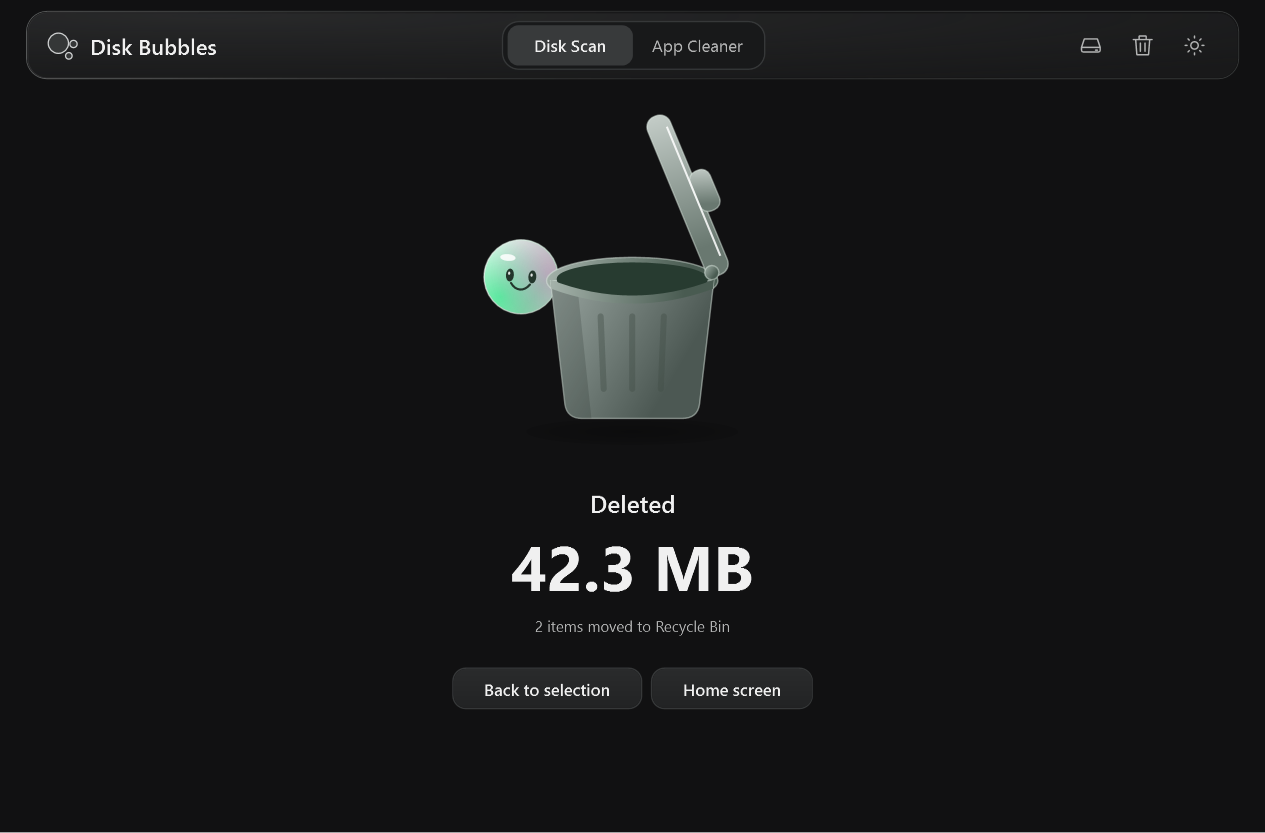
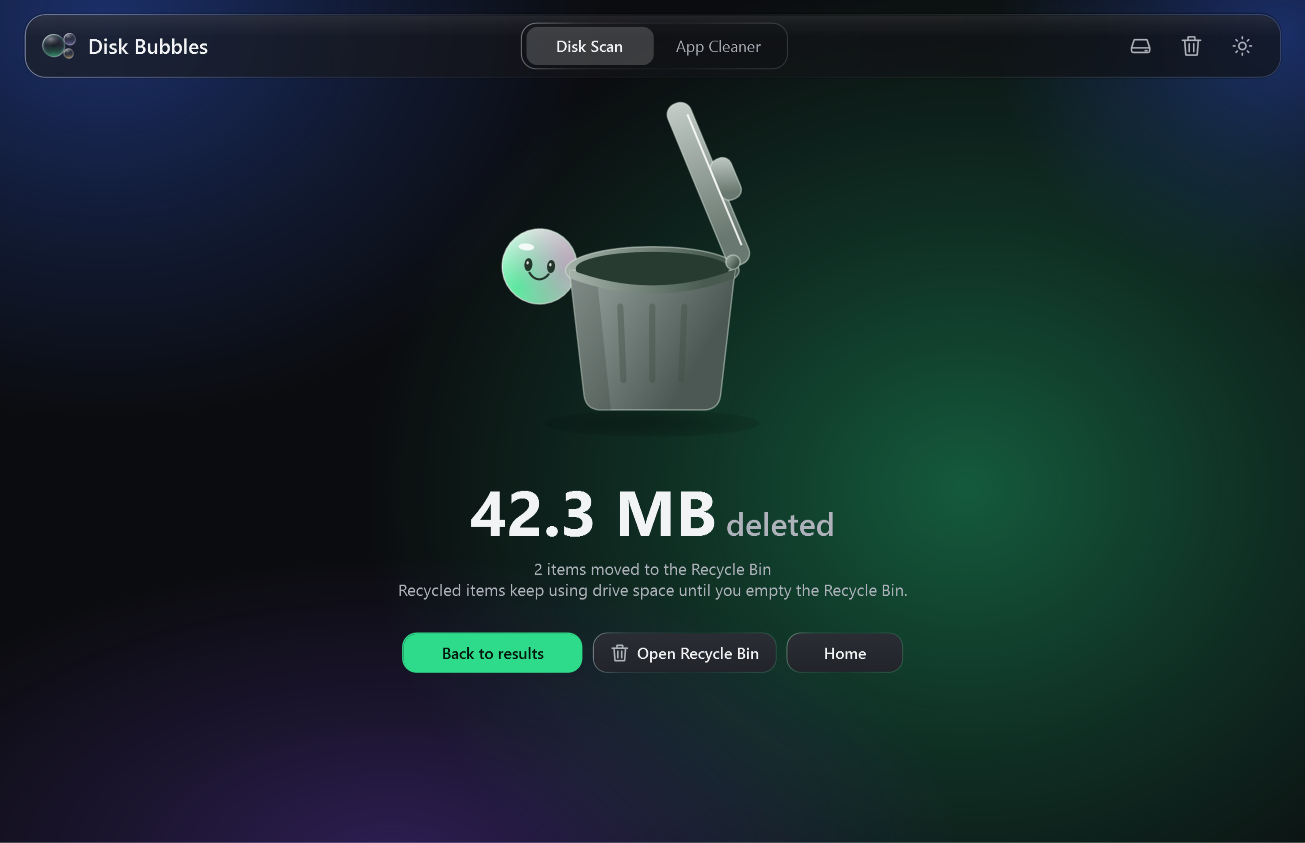
docs: describe the 11.0.0 deletion engine, map and glass design
Refresh the readme and screenshots, record the product context and the design direction, and document how review and the Recycle Bin move report each item.

diff --git a/docs/selection-and-deletion.md b/docs/selection-and-deletion.md
@@ -1,25 +1,35 @@
 # Selection and deletion
 
-Checkboxes select items for review. Their full column is a click target, and the model notifies the list when a context-menu action changes a mark. Selection is allowed for protected items so the checkbox always responds; deletion still checks protection, file identity and folder contents. A protected item's Delete command is disabled, and the review explains why it must stay in place.
+Checkboxes mark items for cleanup. Their whole column is a click target, and Space marks the selected row. Protected items (critical Windows folders, system files, app-managed locations, folders with unreadable contents) cannot be marked; the disabled checkbox explains why. Marks persist while you browse the current scan and appear on the map as an accent ring with a check badge. The footer tray shows how much is marked and offers **Review & delete**.
 
-The last bubble hovered keeps its matching row highlighted. A different bubble replaces that highlight; changing folders clears it. Highlighting scrolls the matching row into view. It does not mark the item for deletion.
+The bubble menu offers Open (folders), Mark for cleanup, Move to Recycle Bin and Open in File Explorer. Move to Recycle Bin acts on that one item without a separate review.
 
-Bubble menus contain Select, Delete and Open in Explorer, in that order. Select marks and reveals the matching row. Delete validates only the clicked item and moves it to the Recycle Bin without requiring a checkbox or a separate selection review. The normal trash action still reviews cumulative marks. Both paths use the existing identity and protection checks.
+## Review
 
-The completion page appears only for confirmed transfers. Its size and item count come only from the items Windows confirmed as moved. Moving to the Recycle Bin does not immediately free that space on the volume; the page names the destination rather than claiming free disk capacity. Failed items are reported separately and stay out of the success total.
+Review collapses nested marks under a marked parent, then checks each item against the disk as it is now: the path must still name a plain local file or folder (no link or alias), the type must match the scan, a file's size must match, and its volume and file identity are recorded. Review never re-scans folder contents, so it is instant for folders of any size.
 
-Windows uses system attributes for [ordinary folder customization](https://learn.microsoft.com/en-us/windows/win32/shell/how-to-customize-folders-with-desktop-ini) as well as operating-system files. A customized user folder and its `desktop.ini` or `Thumbs.db` metadata do not block removal by themselves. Critical path rules, system-managed roots, other system-marked files, registered app locations and link checks still apply during scanning and final identity verification.
+## Move
 
-Explorer navigation resolves a filesystem path to a Shell item ID on a separate STA thread. A folder opens through `ShellExecuteEx`; a file is selected through [SHOpenFolderAndSelectItems](https://learn.microsoft.com/en-us/windows/win32/api/shlobj_core/nf-shlobj_core-shopenfolderandselectitems). The resolved filesystem path must match the requested one. Missing paths and changed item types produce an error rather than a Home window. App Cleaner uses the same folder-opening path.
+`RecycleBin.MoveAsync` runs on its own STA thread. Just before the move it re-reads each item's identity; a file edited since review or a folder replaced by another of the same name fails with "changed after review". All remaining items go to one `IFileOperation` with Recycle Bin semantics (`FOFX_RECYCLEONDELETE`, `FOF_ALLOWUNDO`) and an `IFileOperationProgressSink`. Windows reports each item through `PostDeleteItem`:
+
+- a success with a new Recycle Bin item is **moved to the Recycle Bin**;
+- a success without one is **permanently deleted** — this only happens after the user accepts the standard Windows prompt for an item too large for the Bin (`FOF_WANTNUKEWARNING`);
+- a failure keeps the item and maps the copy-engine code from the Windows SDK's `sherrors.h` to a plain reason, such as an app holding a file open or access denied.
+
+Anything Windows did not report is settled from the filesystem, so the app never claims a result it cannot see. Removed items leave the in-memory scan, ancestor totals update, and marks inside them clear.
+
+## Results
+
+The Deleted page appears whenever at least one item was removed. It shows the removed size, how many were recycled versus permanently deleted, and lists items that stayed with their reasons. Recycled items still use drive space until the Recycle Bin is emptied, and the page says so. If nothing was removed, a results dialog lists every item and why.
+
+While Windows works, a progress sheet shows the item, file and size counts. Windows examines every file in a folder before recycling it, so very large folders take a moment; the sheet keeps moving the whole time.
+
+Windows uses system attributes for [ordinary folder customization](https://learn.microsoft.com/en-us/windows/win32/shell/how-to-customize-folders-with-desktop-ini) as well as operating-system files. A customized user folder and its `desktop.ini` or `Thumbs.db` metadata do not block removal by themselves.
+
+Explorer navigation resolves a filesystem path to a Shell item ID on a separate STA thread and selects files with [SHOpenFolderAndSelectItems](https://learn.microsoft.com/en-us/windows/win32/api/shlobj_core/nf-shlobj_core-shopenfolderandselectitems).
 
 ## Completion motion
 
-The large central scene is drawn with native WPF vectors. The bin falls under acceleration, compresses on impact and rebounds. Its attached lid springs to 75% of a right angle. A green and pink glass bubble with eyes and a smile enters from below, circles upward in front of and behind the bin, then bursts above the opening. Every particle follows a curve into the open mouth. The bin contracts into a point after the particles arrive.
+The bin and bubble scene is drawn with native WPF vectors and lasts 4.6 seconds. The actions are available immediately. Rendering stops when finished or hidden, and Windows reduced-motion settings show a static scene.
 
-The sequence lasts 4.6 seconds. The two navigation actions are available immediately; users do not have to wait for the animation. Rendering stops on completion, when the page is hidden, or when its window unloads. Windows reduced-motion settings replace the movement with a static scene.
-
-Off-screen verification covers both themes, compact windows, key animation poses, selection bindings, sticky hover, protected commands, confirmed size totals and both completion actions. Test captures use disposable fixture data.
-
-![Native WPF deletion animation with a clay bin and glass bubble mascot](screenshots/deletion.gif)
-
-![Completion screen showing confirmed removal totals and navigation actions](screenshots/deleted.png)
+Verification moves real fixture files and a fixture folder to the Recycle Bin, holds one file open from another handle to confirm it stays with a clear reason, edits a file after review, and replaces a folder after review.

diff --git a/README.md b/README.md
@@ -1,8 +1,8 @@
 # Disk Bubbles
 
-Disk Bubbles shows where your Windows storage went. Scan a drive or folder and get a map sized by the files inside it. The biggest folders are easy to spot, and a click takes you straight into one.
+Disk Bubbles shows where your Windows storage went. Scan a drive or folder and get a map of glass bubbles whose area is the space they use. The biggest folders are easy to spot, and a click takes you straight into one.
 
-[Download 10.5.1 for Windows](https://github.com/tiwaritarush/disk-bubbles/releases/download/v10.5.1/DiskBubbles.exe) · [Release notes](https://github.com/tiwaritarush/disk-bubbles/releases/tag/v10.5.1) · [Build from source](#build-from-source) · [Report an issue](https://github.com/tiwaritarush/disk-bubbles/issues)
+[Download for Windows](https://github.com/tiwaritarush/disk-bubbles/releases/latest) · [Changelog](CHANGELOG.md) · [Build from source](#build-from-source) · [Report an issue](https://github.com/tiwaritarush/disk-bubbles/issues)
 
 Windows 10 and 11 · Portable executable · C# and WPF · MIT
 
@@ -13,11 +13,11 @@ Windows can tell you that a drive is nearly full. Figuring out which project, do
 ## What you can do
 
 - **Scan a drive or folder.** See progress as Windows enumerates the files. You can cancel a scan and return to your previous results.
-- **Explore by size.** Click a folder in the list or on the map to open it. Hover to see its size and share of the current folder. Use the map arrows to see smaller entries, including empty ones. Back and Forward remember your scroll position and map page.
-- **Mark items as you browse.** Check files or folders anywhere in the scan. Use the trash icon at the bottom right to review everything together. The app protects critical Windows locations and verifies file identities before asking Windows to move anything.
+- **Explore by size.** Bubble area is true to size, and folders show their biggest contents inside them. Click a folder in the list or on the map to open it. Hover to see its size and share of the current folder. When a folder holds more than fits legibly, a **+N more** bubble and the **Next page** button show the rest. Back and Forward remember your scroll position and map page.
+- **Mark items as you browse.** Check files or folders anywhere in the scan, then choose **Review & delete** in the footer. Every item ends with a clear result: moved to the Recycle Bin, permanently deleted after the Windows prompt for items too large for the Bin, or kept with the reason.
 - **Uninstall apps.** App Cleaner lists desktop and Store apps with their icons and measured install sizes. Choose **Uninstall** or **Deep Uninstall** from the app details pane. Confirmed removals leave the list immediately, and the current filter stays in place.
 - **Review leftovers.** After a supported uninstall, review remaining install folders. Deep Uninstall also checks matching app data and caches. Choose whether to move verified folders to the Recycle Bin.
-- **Switch between light and dark.** The bubbles catch a pink reflection in the cream theme and a green one in the charcoal theme. The app remembers your choice and follows the Windows animation setting.
+- **Switch between light and dark.** Both themes are liquid glass over soft coloured light. Folder bubbles glow green in the dark theme and pink in the light one, and files carry a subtle tint for their kind. The app remembers your choice and follows the Windows animation setting.
 
 ![Disk Bubbles in the cream and ink theme with frosted glass bubbles.](docs/screenshots/light.png)
 
@@ -29,11 +29,11 @@ Screenshots use a disposable sample library and example app names.
 
 Get `DiskBubbles.exe` from the [releases page](https://github.com/tiwaritarush/disk-bubbles/releases) and run it on Windows 10 or 11 with .NET Framework 4.8 or later. It runs with your usual Windows permissions. The portable executable is unsigned, and the release includes a SHA-256 checksum for checking the download.
 
-Start with **Scan C:** or **Choose folder…**. Click a folder name or bubble to open it. The last bubble you hover stays highlighted in the list until you hover another one. Right-click a bubble for **Select**, **Delete**, or **Open in Explorer**. Select checks and reveals its row. Delete validates that item and moves it directly to the Recycle Bin. Open in Explorer opens a folder or selects a file in its containing folder.
+Start with **Scan C:** or **Choose folder…**. Click a folder name or bubble to open it. The last bubble you hover stays highlighted in the list until you hover another one. Right-click a bubble to open it, mark it, move it straight to the Recycle Bin, or show it in File Explorer.
 
-Checkboxes mark items for a combined Recycle Bin review. Protected items can be selected, but their deletion stays blocked. A completed removal shows its actual size and count, with **Back to selection** and **Home screen** actions. [Selection, deletion and animation details](docs/selection-and-deletion.md) describe the checks and motion behavior.
+Checkboxes mark items for a combined review. Protected Windows and app locations cannot be marked, and their checkbox says why. A completed removal shows its actual size, what was recycled or permanently deleted, and anything that stayed with its reason. [Selection and deletion](docs/selection-and-deletion.md) describes the checks.
 
-Press **Enter** on a row to open its folder or reveal its file in File Explorer. Use **Alt+Left**, **Alt+Right**, and **Alt+Up** to navigate. A new scan starts a fresh set of marks.
+Press **Enter** on a row to open its folder or reveal its file, **Space** to mark it and **Delete** to review it. Use **Alt+Left**, **Alt+Right**, **Alt+Up** or **Backspace** to navigate, and **Page Up**/**Page Down** to page the map. A new scan starts a fresh set of marks.
 
 The map shows logical file sizes. The space a file takes up on disk can differ, especially for compressed, sparse, or hard-linked files. The capacity meter uses the space Windows reports for your account. Scan results stay in memory, and Disk Bubbles sends no telemetry.
 
@@ -48,7 +48,7 @@ Install the .NET SDK on Windows. From the repository root in PowerShell, run the
 .\Verify.ps1
 ```
 
-The build writes `artifacts/DiskBubbles.exe`. Verification runs against files it creates under `artifacts/verification/` and saves screenshots there. It exercises the UI and Recycle Bin safeguards using disposable fixtures. Release details and remaining validation gaps are in the [changelog](CHANGELOG.md).
+The build writes `artifacts/DiskBubbles.exe`. Verification runs against files it creates under `artifacts/verification/` and saves screenshots there. It exercises the UI and safeguards and moves disposable fixture files to your Recycle Bin to prove each outcome. Release details and remaining validation gaps are in the [changelog](CHANGELOG.md).
 
 ## How it works
 

diff --git a/docs/architecture.md b/docs/architecture.md
@@ -14,7 +14,9 @@ The verification fixture covers removal-command validation, both uninstall revie
 
 ## From drive to map
 
-`DiskScanner` assigns directory work to several workers. `NativeDirectoryReader` reads 64 KiB batches of Windows directory records. The scanner adds up subfolders after traversal and orders the root and large lists on the worker. Small lists are sorted on first use. `BubbleMap` draws up to twelve circles per page. Area represents size relative to the largest item on that page, with a minimum to keep small and zero-byte entries visible. The packer checks where each circle can sit against one or two neighbors. During navigation, WPF moves two retained map layers after layout, using bitmap caches when hardware acceleration is available.
+`DiskScanner` assigns directory work to several workers. `NativeDirectoryReader` reads 64 KiB batches of Windows directory records. The scanner adds up subfolders after traversal and orders the root and large lists on the worker. Small lists are sorted on first use.
+
+`BubbleMap` follows CleanMyMac's Space Lens. `CirclePacker` places circles with the front-chain algorithm (each new circle tangent to two on the cluster's outer chain), with the growth direction weighted by the viewport's aspect so the cluster fills the map. Within a page, bubble area is exactly proportional to size. A page takes as many items, largest first, as stay at least 15 px in radius (40 at most); the rest gather into a "+N more" bubble that opens the next page, and the pager reserves its own strip so it never covers a bubble. Folder bubbles preview their largest children inside them, each sized by its share of the folder. Pages are computed lazily per folder and viewport and cached with their frozen artwork, so returning to a folder reuses both. During navigation, WPF moves two retained map layers, using bitmap caches when hardware acceleration is available.
 
 Scans observe a live filesystem. Entries can change while a directory is being read, so the map is a view of what the scanner observed during that run. Reparse points discovered during enumeration and unreadable entries are counted as skipped.
 
@@ -22,6 +24,6 @@ The default worker limit depends on the volume's [Windows seek-penalty descripto
 
 ## From review to Recycle Bin
 
-Marks belong to a scan and carry the item's original folder path. Review collapses nested marks under a marked parent to avoid moving or counting them twice. It checks each proposed move against the selected path and file identity. Folders also get a fingerprint of descendant identities and timestamps. The app rechecks these before asking Windows to recycle the verified item through `ITransferSource::RecycleItem`. It updates the affected folders when the Shell confirms a move and prompts for a rescan when the result is uncertain.
+Marks belong to a scan and carry the item's original folder path. Review collapses nested marks under a marked parent and checks each item's path, type, size and file identity without re-scanning folder contents. `RecycleBin` re-checks identity just before the move, then hands every item to one [IFileOperation](https://learn.microsoft.com/en-us/windows/win32/api/shobjidl_core/nn-shobjidl_core-ifileoperation) with Recycle Bin flags and a progress sink. Each item's outcome comes from Windows' `PostDeleteItem` report, or from the filesystem when Windows reports nothing. See [Selection and deletion](selection-and-deletion.md).
 
-The Windows transfer uses a pathname. A file can still change between the last identity check and the Shell operation. The verification fixture exercises replacement before that boundary and simulates a confirmed transfer to check the resulting map state. [Windows RecycleItem](https://learn.microsoft.com/en-us/windows/win32/api/shobjidl_core/nf-shobjidl_core-itransfersource-recycleitem)
+The Windows transfer uses a pathname, so a file can still change between the last identity check and the Shell operation; the window is a few milliseconds and the destination is the Recycle Bin.

diff --git a/PRODUCT.md b/PRODUCT.md
@@ -1,0 +1,59 @@
+# Product
+
+<!-- impeccable:product-schema 1 -->
+
+## Platform
+
+web
+
+> Note: the shipped app is a native Windows desktop application (C#, WPF, .NET Framework 4.8). `web` is recorded only because the schema has no Windows value; design work must follow Windows desktop conventions (Segoe UI, Fluent-style controls, title-bar theming, keyboard shortcuts, Per-Monitor DPI), not web ones.
+
+## Users
+
+People on a Windows PC whose drive is filling up and who want to find out what is using the space, then clear it out safely. They open the app occasionally, usually when Windows warns about low space or a download fails. (Inferred from the existing app and the user's brief; not interviewed.)
+
+## Product Purpose
+
+Disk Bubbles scans a drive or folder, shows what is taking space as a bubble map where area tracks size, lets the user drill into folders, mark files and folders, and move them to the Recycle Bin. App Cleaner inventories installed apps, runs their uninstallers and finds verified leftover folders.
+
+Success: the user finds the big items within seconds of the scan finishing, and deletion either visibly succeeds or says exactly why an item stayed.
+
+## Positioning
+
+A Windows counterpart to CleanMyMac's Space Lens: the size of a bubble is the size on disk, folders preview their contents inside them, and deletion is reviewed, reversible (Recycle Bin) and honest about every item.
+
+## Operating Context
+
+- Portable single `.exe`, no installer, runs as the signed-in user (no elevation).
+- Scans can cover millions of files; results live in memory for the session.
+- Deletion goes to the Windows Recycle Bin. Items too large for the Bin trigger the standard Windows permanent-delete prompt; declining keeps the item and the app explains why.
+
+## Capabilities and Constraints
+
+- Disk Scan: drive or folder scan, bubble map with drill-down, list beside the map, cross-folder marking, review and Recycle Bin move, success screen.
+- Bubble map follows Space Lens: largest items true to size, nested previews inside folders. When a folder has too many items to show legibly, the map pages, and the next page must be clearly signposted.
+- App Cleaner: installed-app inventory, uninstall, Deep Uninstall leftovers. Its workflow stays; it adopts the new look and the shared deletion engine.
+- No telemetry, no account, no network service.
+- Protected Windows and app-managed locations are never offered for deletion.
+
+## Brand Commitments
+
+- Name: Disk Bubbles. Light and dark appearance, user switchable and remembered.
+- The bubble is the product's mark and its core visual.
+
+## Evidence on Hand
+
+- Screenshots of v10.5.1: `docs/screenshots/`.
+- Reference behavior: CleanMyMac 5 Space Lens feature map (user-supplied analysis).
+- No customer quotes, benchmarks against competitors, or usage numbers exist; none may be invented.
+
+## Product Principles
+
+1. Truth over reassurance: never claim a delete that Windows did not perform, never hide one that it did.
+2. Size is the interface: what is big must look big, immediately.
+3. Never strand the user: long work shows progress and can be cancelled; nothing appears frozen.
+4. Reversible by default: Recycle Bin first; permanent deletion only through an explicit Windows prompt.
+
+## Accessibility & Inclusion
+
+- Keyboard path for every map action via the list; Windows reduced-motion preference respected; WCAG AA text contrast in both themes.

diff --git a/CHANGELOG.md b/CHANGELOG.md
@@ -1,5 +1,39 @@
 # Changelog
 
+## 11.0.0
+
+### Deletion you can trust
+
+- Fix deletion reporting "Windows did not confirm the move" for items it had in fact moved, and never reaching the Deleted page. The old code called `ITransferSource::RecycleItem` directly and treated Windows' non-zero success codes as failures.
+- Move items with `IFileOperation`, the engine File Explorer uses, in one batch. Windows reports every item: moved to the Recycle Bin, permanently deleted, or kept, with a plain reason (in use by another app, access denied, changed or missing since review).
+- Remove the hang before deleting. Review no longer re-scans each selected folder and opens every file inside it twice; it checks the selected item itself, so a 40,000-file folder reviews in milliseconds instead of minutes.
+- Show a progress sheet while Windows works, with item, file and size counts. Large folders still take Windows a moment; the app never looks frozen.
+- Items too large for the Recycle Bin bring up the standard Windows permanent-delete prompt. Declining keeps the item and the result says why.
+- The Deleted page separates recycled from permanently deleted items, lists anything that stayed with its reason, and adds **Open Recycle Bin**.
+- A file edited after review, or a folder replaced by another of the same name, is not moved.
+
+### Space Lens map
+
+- Bubble area is exactly proportional to size within a page, packed with a front-chain circle packer into a cluster shaped to the map.
+- Folders preview their largest contents as smaller bubbles inside them.
+- A page holds as many items as stay legible. The rest gather into a **+N more** bubble and a pager with a clear **Next page** button. Page Up and Page Down also move between pages.
+- Selecting a row turns to the page that shows its bubble.
+
+### Liquid glass
+
+- A soft ambient light field sits behind translucent glass panes with specular rims, in both themes.
+- Bubbles are clearer glass with the content's colour pooled inside: folders in the theme's green or pink, with subtle tints for video, images, audio, archives, apps and documents. List rows carry the same tint.
+- The light behind the map shifts toward the colour of the bubble under the pointer.
+- Marked bubbles get an accent ring and check badge. The footer shows a selection tray with the marked size and a **Review & delete** button.
+- Glass buttons, round navigation buttons, keyboard-only focus rings, and refreshed start, scanning and empty states.
+
+### Other
+
+- Protected items can no longer be marked; their checkbox is disabled and explains why.
+- Bubble menu: Open, Mark for cleanup, Move to Recycle Bin, Open in File Explorer.
+- Space marks the selected row, Delete reviews it, Backspace goes up a folder.
+- Verification now moves real fixture files to the Recycle Bin, including a file held open by another process, and checks true-to-size bubble geometry.
+
 ## 10.5.1
 
 - Allow customized Downloads and other ordinary folders to pass deletion checks when they contain `desktop.ini` or thumbnail metadata. Keep critical Windows paths, app-managed locations, system files and unverified links protected.

diff --git a/.impeccable/surfaces/src-diskbubbles-mainwindow-layout-cs.md b/.impeccable/surfaces/src-diskbubbles-mainwindow-layout-cs.md
@@ -1,0 +1,28 @@
+---
+version: 1
+slug: "src-diskbubbles-mainwindow-layout-cs"
+primary_target: "src/DiskBubbles/MainWindow.Layout.cs"
+related_targets: ["src/DiskBubbles/BubbleMap.cs"]
+---
+
+# Disk Scan browser
+
+Scope: the Disk Scan surfaces of the Windows WPF app (start, scanning, browser with list + bubble map, review dialog, deletion progress sheet, Deleted page). Mode: Operate. App Cleaner inherits the same world without workflow changes.
+
+Audience and task: a Windows user whose drive is filling up finds the big items within seconds, marks them, reviews, and moves them to the Recycle Bin with a definite per-item result.
+
+## Direction contract
+
+THESIS: Liquid glass you can read. The user pinned the incumbent world (glass bubbles with subtle colour inside); this build makes it real glass by giving it light to refract, and refuses the category default of a grey dashboard with a flat treemap.
+
+OWN-WORLD: A soft ambient light field (dark: emerald, cobalt, violet on near-black; light: pink, peach, lilac on warm paper) behind translucent panes with a specular rim brightest top-left and a faint dark outline. Bubbles are nearly clear orbs: Fresnel-thick edges, content colour pooling at the bottom, a coloured refraction ring, a specular crescent and glint. Colour inside a bubble is its kind (folder in the theme's own green or pink; video violet, images amber, audio coral, archives sky, apps periwinkle, documents green or lemon). Segoe UI throughout, tabular numerals, one accent for primary actions, marks and focus.
+
+STORY: The user sees what is big immediately because area is exactly proportional to size; folders show their makeup inside them; anything too small to read is gathered into a "+N more" bubble and a pager that says where the rest is. Marking builds a tray with a real "Review & delete" action; deleting shows progress and ends on a page that tells the truth about every item.
+
+FIRST VIEWPORT: Glass toolbar (brand mark of three glass bubbles, Disk Scan / App Cleaner segmented control, scan/bin/theme icons). Breadcrumbs with round glass back/forward/up. Left pane: Contents list with kind-tinted glyph discs, checkboxes, sizes. Right pane (two thirds): folder name and caption, large total top right, the bubble cluster filling the pane, glass pager pill bottom centre with an accent Next page. Footer: drive meter left, counts, selection tray right.
+
+FORM: Incumbent world, pinned by the user (assigned direction from the roll was offered and declined in favour of the pin). Seed key ce302b64.
+
+Signature interaction: the ambient light behind the map shifts toward the colour of the bubble under the pointer, as if the bubble were lit from behind.
+
+FINISH: unreviewed and undocumented is unfinished; this build ends with the finish review, the verdict, DESIGN.md, and every shipping raster carrying its provenance
